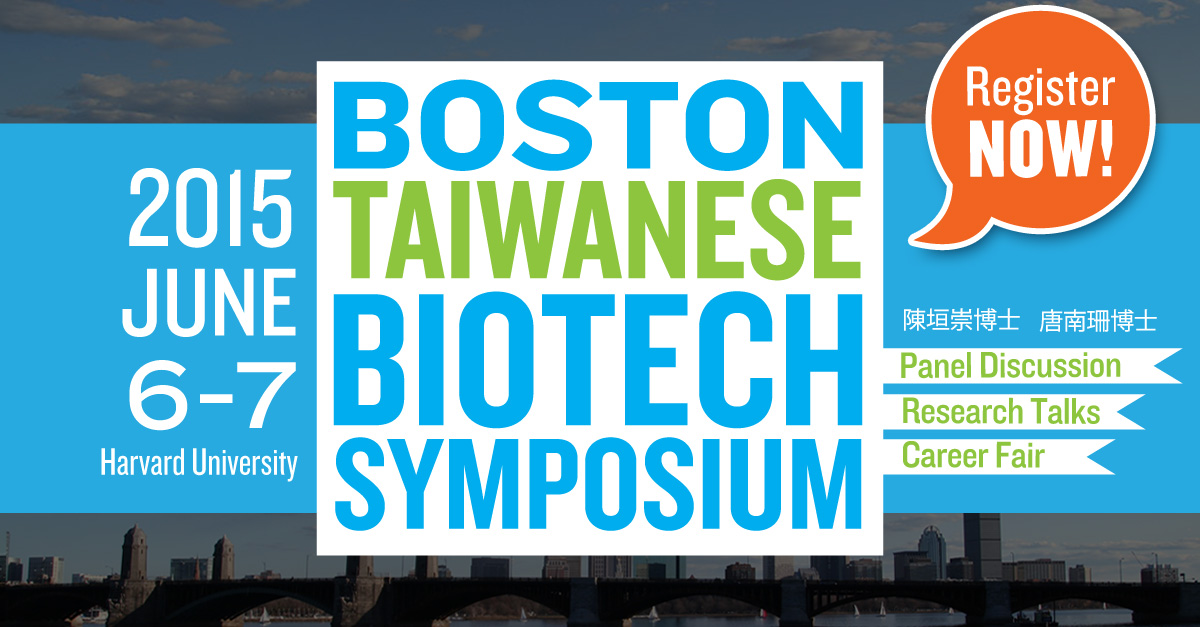
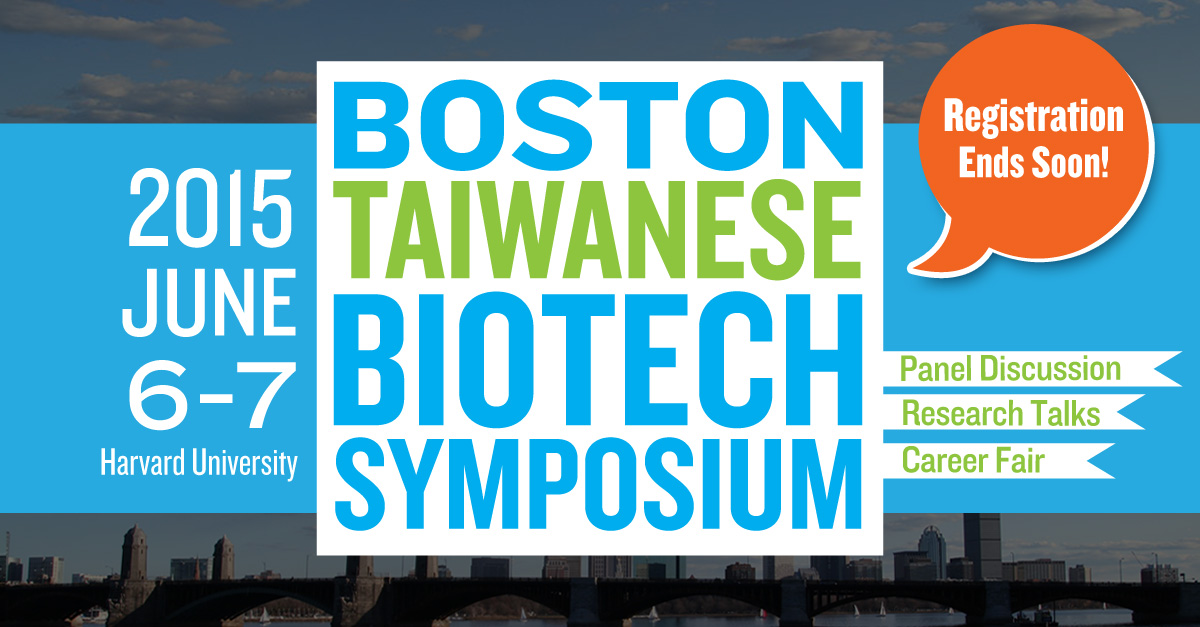
Update OG file for 3rd-run promotion

Changed region(s): [[0.74, 0.0, 0.9867, 0.4545], [0.74, 0.4848, 0.9867, 0.7879]]

diff --git a/HTML/index.html b/HTML/index.html
@@ -30,7 +30,7 @@
     <!-- Favicon -->
     <link rel="shortcut icon" href="img/favicon.ico">
     <!--Facebook share-->
-    <meta name="og:description" content="Submission ends soon on May 1st!" />
+    <meta name="og:description" content="Registration ends soon!" />
     <meta property="og:title" content="Boston Taiwanese Biotechnology Symposium 2015" />
     <meta property="og:type" content="website" />
     <meta property="og:url" content="http://btbatw.org/2015/" />
